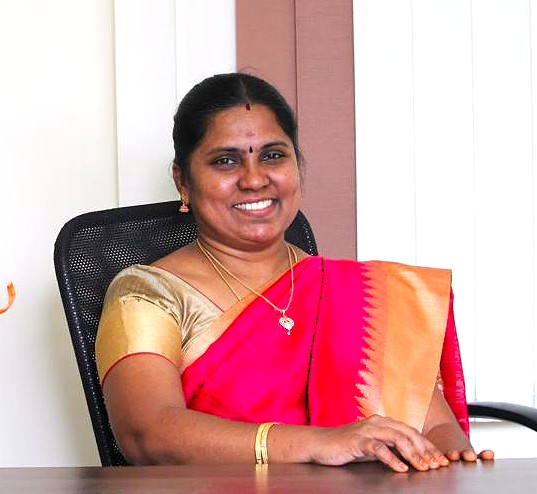
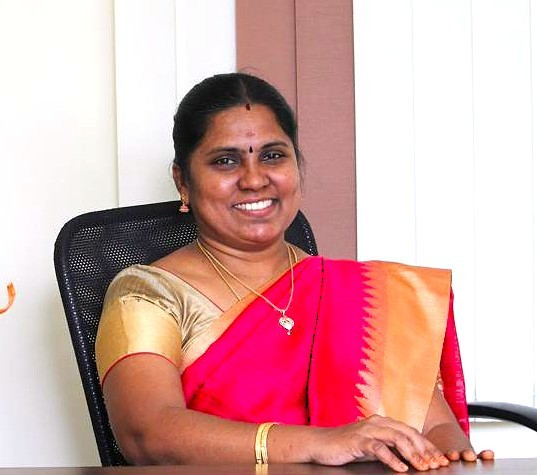
modification

Changed region(s): [[0.0, 0.1768, 1.0, 1.0], [0.3277, 0.1474, 0.5065, 0.2358], [0.0, 0.56, 0.0298, 0.6779]]

diff --git a/src/pages/GetInvolved.jsx b/src/pages/GetInvolved.jsx
@@ -11,7 +11,7 @@ export default function GetInvolved() {
         {/* Students */}
         <div className="bg-blue-800/20 p-6 rounded-xl shadow hover:shadow-lg transition">
           <h2 className="text-2xl font-bold text-sky-300 mb-3">
-            For Students
+            For Student Innovators
           </h2>
           <p className="text-blue-100 mb-4 leading-relaxed">
             Students can engage with KSRCE NEO through various avenues, including internships,
@@ -19,28 +19,47 @@ export default function GetInvolved() {
             provide hands-on experience, mentorship, and exposure to the startup ecosystem.
           </p>
           <a href='https://forms.gle/miZPmmZxsLgjoHrJ7'>
-          <button className="
+            <button className="
             relative inline-block bg-gradient-to-r from-sky-500 to-blue-700 
             text-white font-semibold py-2 px-5 rounded-lg shadow 
             hover:shadow-xl hover:scale-105 transition transform
             before:absolute before:inset-0 before:bg-white/10 before:opacity-0 hover:before:opacity-10 before:rounded-lg before:transition
           ">
-            Explore Student Opportunities
-          </button>
+              Explore Student Opportunities
+            </button>
           </a>
         </div>
 
-        {/* Mentors */}
         <div className="bg-blue-800/20 p-6 rounded-xl shadow hover:shadow-lg transition">
           <h2 className="text-2xl font-bold text-sky-300 mb-3">
-            For Mentors
+            For StartUps
           </h2>
           <p className="text-blue-100 mb-4 leading-relaxed">
-            Experienced professionals and industry experts can contribute to KSRCE NEO as mentors,
-            guiding startups and sharing their knowledge. Mentors play a crucial role in shaping
-            the next generation of entrepreneurs.
+            KSRCE NEO is the perfect launchpad for ambitious startups to bring their ideas to life.
+            Gain access to innovation labs, expert mentorship, networking opportunities, and the
+            resources you need to accelerate your business growth. Join us and turn your vision
+            into a successful venture.
           </p>
           <a href='https://forms.gle/Wc7M6TbAMW5C3JjHA'>
+            <button className="relative inline-block bg-gradient-to-r from-sky-500 to-blue-700 text-white font-semibold py-2 px-5 rounded-lg shadow 
+            hover:shadow-xl hover:scale-105 transition transform before:absolute before:inset-0 before:bg-white/10 before:opacity-0 hover:before:opacity-10 before:rounded-lg before:transition"
+            >
+              Apply as a Startup
+            </button>
+          </a>
+        </div>
+
+      {/* Mentors */}
+      <div className="bg-blue-800/20 p-6 rounded-xl shadow hover:shadow-lg transition">
+        <h2 className="text-2xl font-bold text-sky-300 mb-3">
+          For Mentors
+        </h2>
+        <p className="text-blue-100 mb-4 leading-relaxed">
+          Experienced professionals and industry experts can contribute to KSRCE NEO as mentors,
+          guiding startups and sharing their knowledge. Mentors play a crucial role in shaping
+          the next generation of entrepreneurs.
+        </p>
+        <a href='https://forms.gle/Wc7M6TbAMW5C3JjHA'>
           <button className="
             relative inline-block bg-gradient-to-r from-sky-500 to-blue-700 
             text-white font-semibold py-2 px-5 rounded-lg shadow 
@@ -49,20 +68,20 @@ export default function GetInvolved() {
           ">
             Become a Mentor
           </button>
-          </a>
-        </div>
+        </a>
+      </div>
 
-        {/* Corporate Partners */}
-        <div className="bg-blue-800/20 p-6 rounded-xl shadow hover:shadow-lg transition">
-          <h2 className="text-2xl font-bold text-sky-300 mb-3">
-            For Corporate Partners
-          </h2>
-          <p className="text-blue-100 mb-4 leading-relaxed">
-            Corporations can partner with KSRCE NEO to foster innovation, access cutting-edge technologies,
-            and engage with startups. Collaboration opportunities include sponsoring events, providing
-            resources, and participating in joint projects.
-          </p>
-          <a href='https://forms.gle/VBgGqVhkqPetoWqu8'>
+      {/* Corporate Partners */}
+      <div className="bg-blue-800/20 p-6 rounded-xl shadow hover:shadow-lg transition">
+        <h2 className="text-2xl font-bold text-sky-300 mb-3">
+          For Corporate Partners
+        </h2>
+        <p className="text-blue-100 mb-4 leading-relaxed">
+          Corporations can partner with KSRCE NEO to foster innovation, access cutting-edge technologies,
+          and engage with startups. Collaboration opportunities include sponsoring events, providing
+          resources, and participating in joint projects.
+        </p>
+        <a href='https://forms.gle/VBgGqVhkqPetoWqu8'>
           <button className="
             relative inline-block bg-gradient-to-r from-sky-500 to-blue-700 
             text-white font-semibold py-2 px-5 rounded-lg shadow 
@@ -71,9 +90,9 @@ export default function GetInvolved() {
           ">
             Explore Partnership Opportunities
           </button>
-          </a>
-        </div>
+        </a>
       </div>
     </div>
+    </div >
   );
 }

diff --git a/src/components/Hero.jsx b/src/components/Hero.jsx
@@ -34,19 +34,20 @@ const Hero = () => {
   }, []);
 
   const highlights = [
-    { title: "Startups Incubated", value: "50+" },
-    { title: "Funding Raised", value: "$10M+" },
-    { title: "Jobs Created", value: "200+" },
+    { title: "Startup Onboarded", value: "6+" },
+    { title: "Student Innovators", value: "20+" },
+    { title: "Idea Validated", value: "50+" },
+    { title: "POCs Developed", value: "10+"}
   ];
 
   const programs = [
     {
-      title: "Incubation Program",
-      desc: "A comprehensive program for early-stage startups, providing access to resources, mentorship, and funding opportunities.",
+      title: "Pre-Incubation Program",
+      desc: "Nurturing early-stage ideas through mentoring, validation, and exposure to the startup ecosystem.",
     },
     {
-      title: "Acceleration Program",
-      desc: "An intensive program designed to accelerate the growth of startups through workshops, networking, and investor connections.",
+      title: "Incubation Program",
+      desc: "Supporting startups with infrastructure, expert guidance, and market access to accelerate their growth.",
     },
     {
       title: "Mentorship Program",
@@ -206,7 +207,7 @@ const Hero = () => {
         </div>
 
         {/* Highlights */}
-        <div className="max-w-5xl mx-auto grid grid-cols-1 md:grid-cols-3 gap-6 mt-12">
+        <div className="max-w-5xl mx-auto grid grid-cols-1 md:grid-cols-4 gap-6 mt-12">
           {highlights.map((item, i) => (
             <motion.div
               key={i}

diff --git a/src/pages/Startups.jsx b/src/pages/Startups.jsx
@@ -107,7 +107,7 @@ export default function Startups() {
       </section>
 
       <div className="flex flex-wrap justify-center gap-4 mt-8 pb-12">
-      <a href="https://forms.gle/W9v7f63gsJEsaDo27">
+      <a href="/getinvolved">
         <button className="
           px-6 py-3 bg-gradient-to-r from-sky-500 to-blue-700 text-white font-semibold shadow-lg
           hover:shadow-2xl hover:-translate-y-1 hover:scale-105 transform transition-all rounded-none
@@ -115,13 +115,6 @@ export default function Startups() {
           Apply Now
         </button>
         </a>
-
-        <button className="
-          px-6 py-3 bg-gradient-to-r from-blue-700 to-indigo-800 text-white font-semibold shadow-lg
-          hover:shadow-2xl hover:-translate-y-1 hover:scale-105 transform transition-all rounded-none
-        ">
-          Learn More
-        </button>
       </div>
     </div>
   );

diff --git a/src/components/Navbar.jsx b/src/components/Navbar.jsx
@@ -97,7 +97,7 @@ const Header = () => {
         </nav>
         
         <motion.div whileHover={{ scale: 1.1 }} className="hidden md:block">
-        <a href="https://forms.gle/W9v7f63gsJEsaDo27">
+        <a href="/getinvolved">
           <button className="bg-indigo-600 px-4 py-2 rounded-full shadow hover:bg-sky-700 transition">
             Apply Now
           </button>
@@ -140,7 +140,7 @@ const Header = () => {
               </motion.div>
             ))}
 
-            <a href="https://forms.gle/W9v7f63gsJEsaDo27">
+            <a href="/getinvolved">
             <motion.button
               whileHover={{ scale: 1.05 }}
               className=" bg-sky-600 w-full text-white py-2 rounded-full hover:bg-sky-700 shadow"

diff --git a/src/components/Footer.jsx b/src/components/Footer.jsx
@@ -20,7 +20,7 @@ const Footer = () => {
               href="mailto:info@ksrce.edu.in"
               className="hover:text-blue-300 transition-colors"
             >
-              ksrceneo@gmail.com
+              neo@ksrce.ac.in
             </a>
           </p>
 
@@ -34,7 +34,7 @@ const Footer = () => {
           </p>
 
           <p className="text-lg">
-            K.S.R. College of Engineering, Tiruchengode, Tamil Nadu
+            KSRCE Council For Innovation & Incubation, Tiruchengode, Tamil Nadu
           </p>
 
           <div className="border-t border-blue-600 mt-6 pt-4">

diff --git a/src/pages/About.jsx b/src/pages/About.jsx
@@ -5,7 +5,7 @@ import venkatesan from "../photos/venkatesan.jpg"
 import lakshmi from "../photos/lakshmi.jpg";
 import murugesan from "../photos/murugesan.jpg";
 import pavithran from "../photos/pavithran.jpg";
-import harshini from "../photos/harshini.png";
+import harshini from "../photos/harshini.jpg";
 
 const coreValues = [
   { title: "Innovation", desc: "We champion creativity and encourage the exploration of novel ideas.", icon: "💡" },
